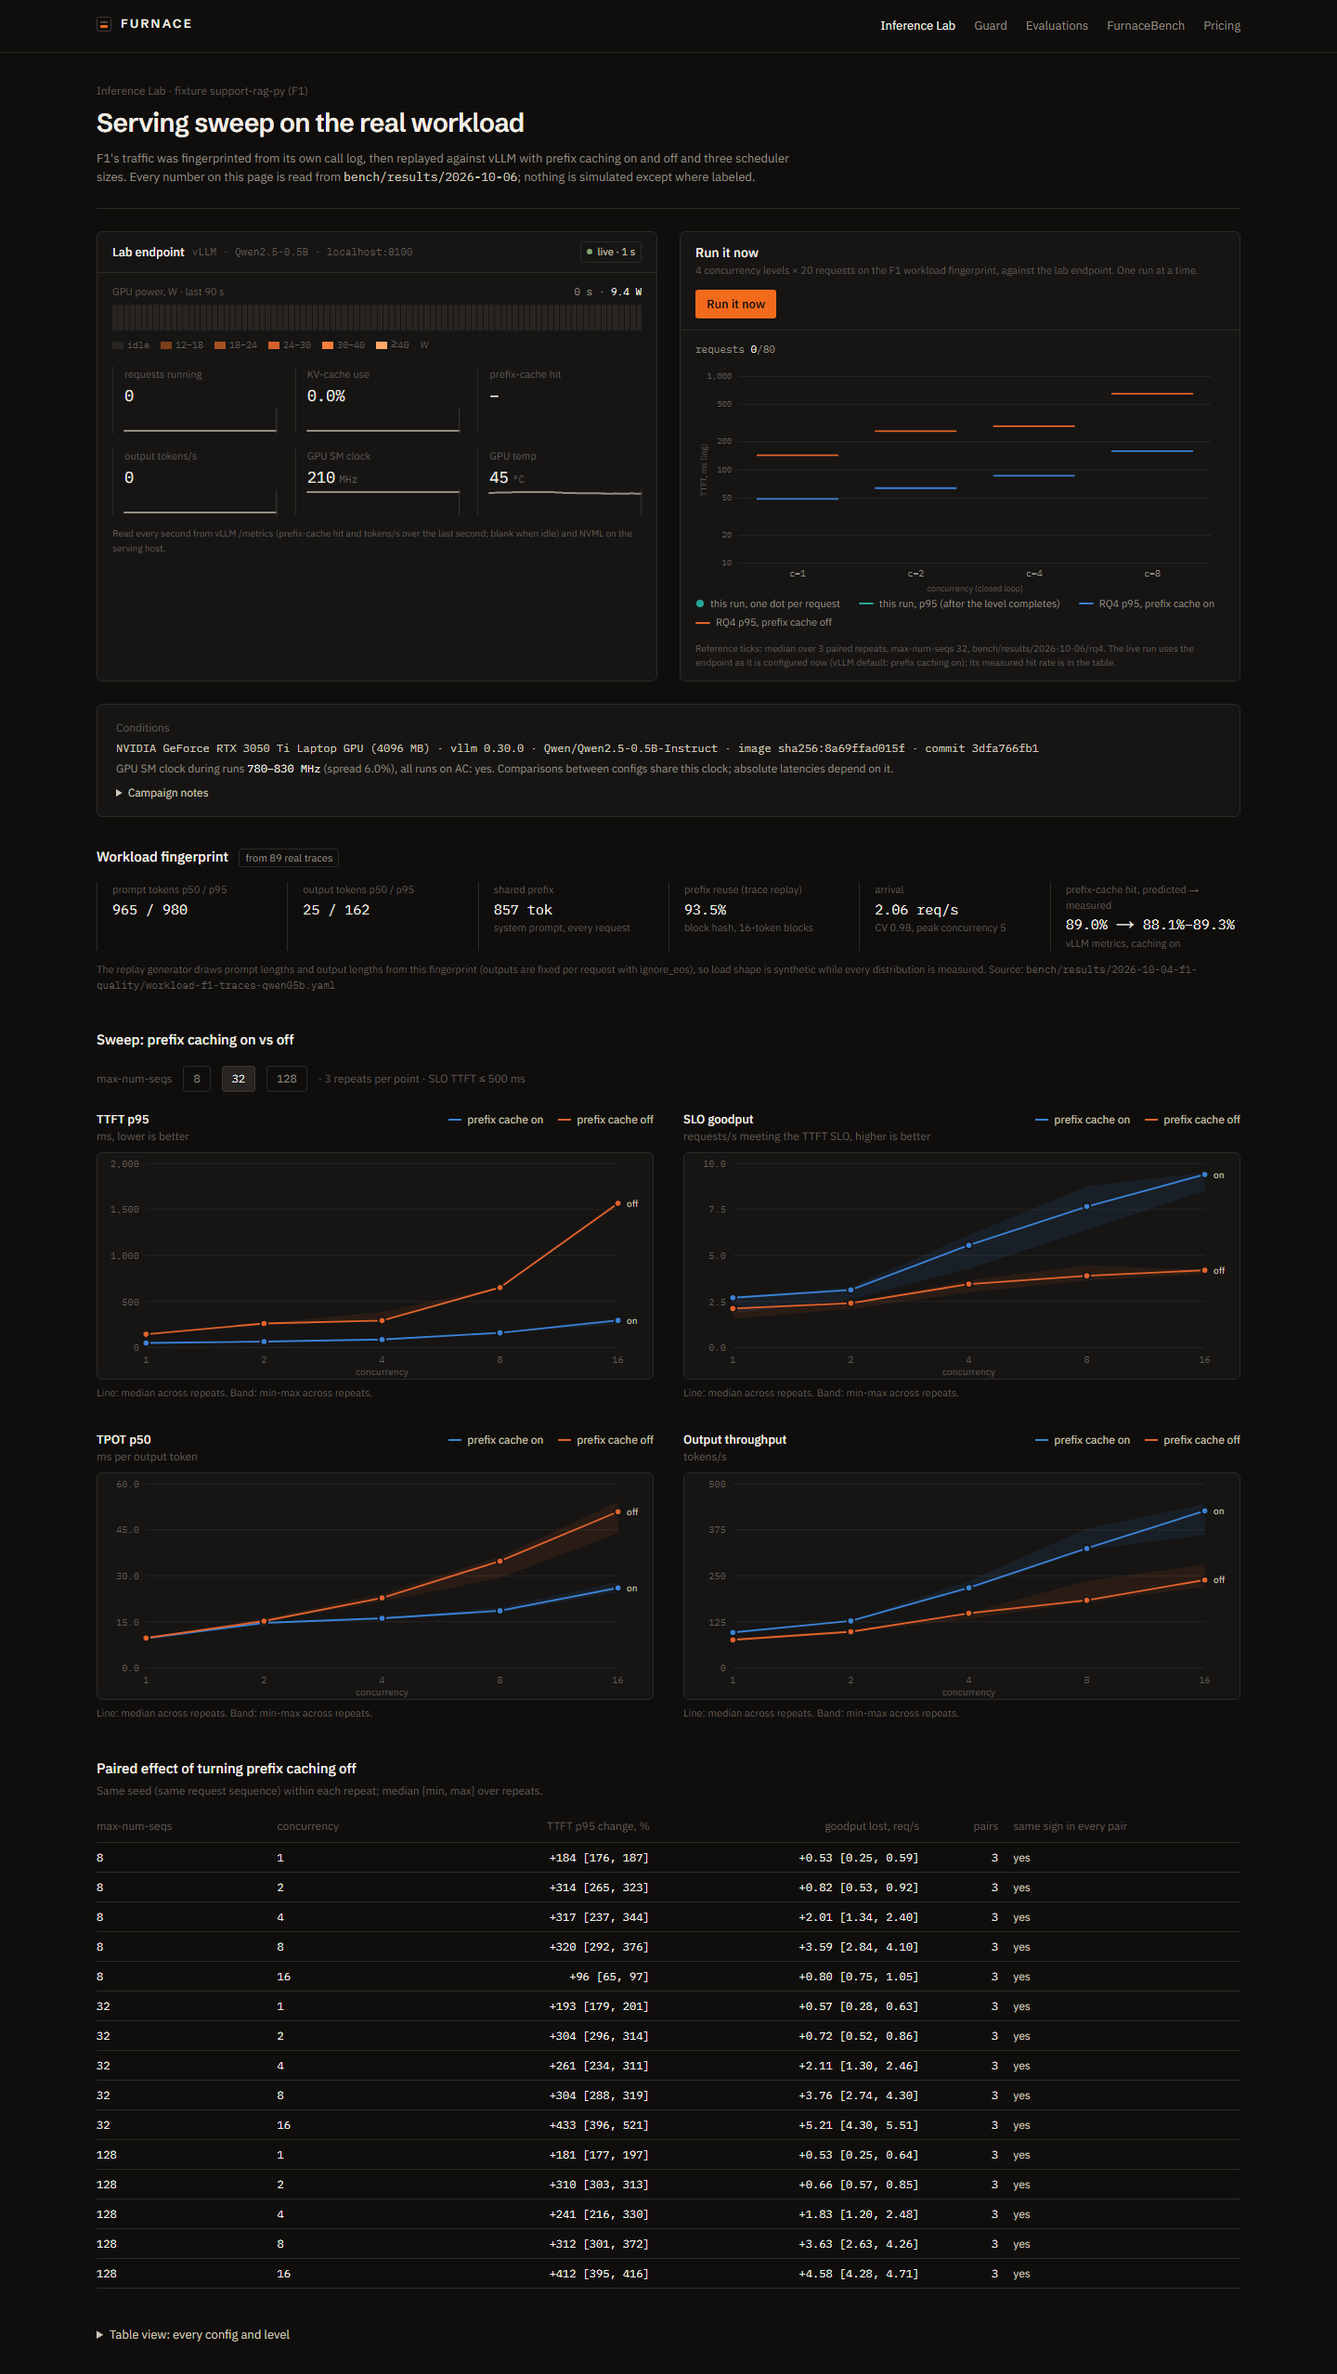
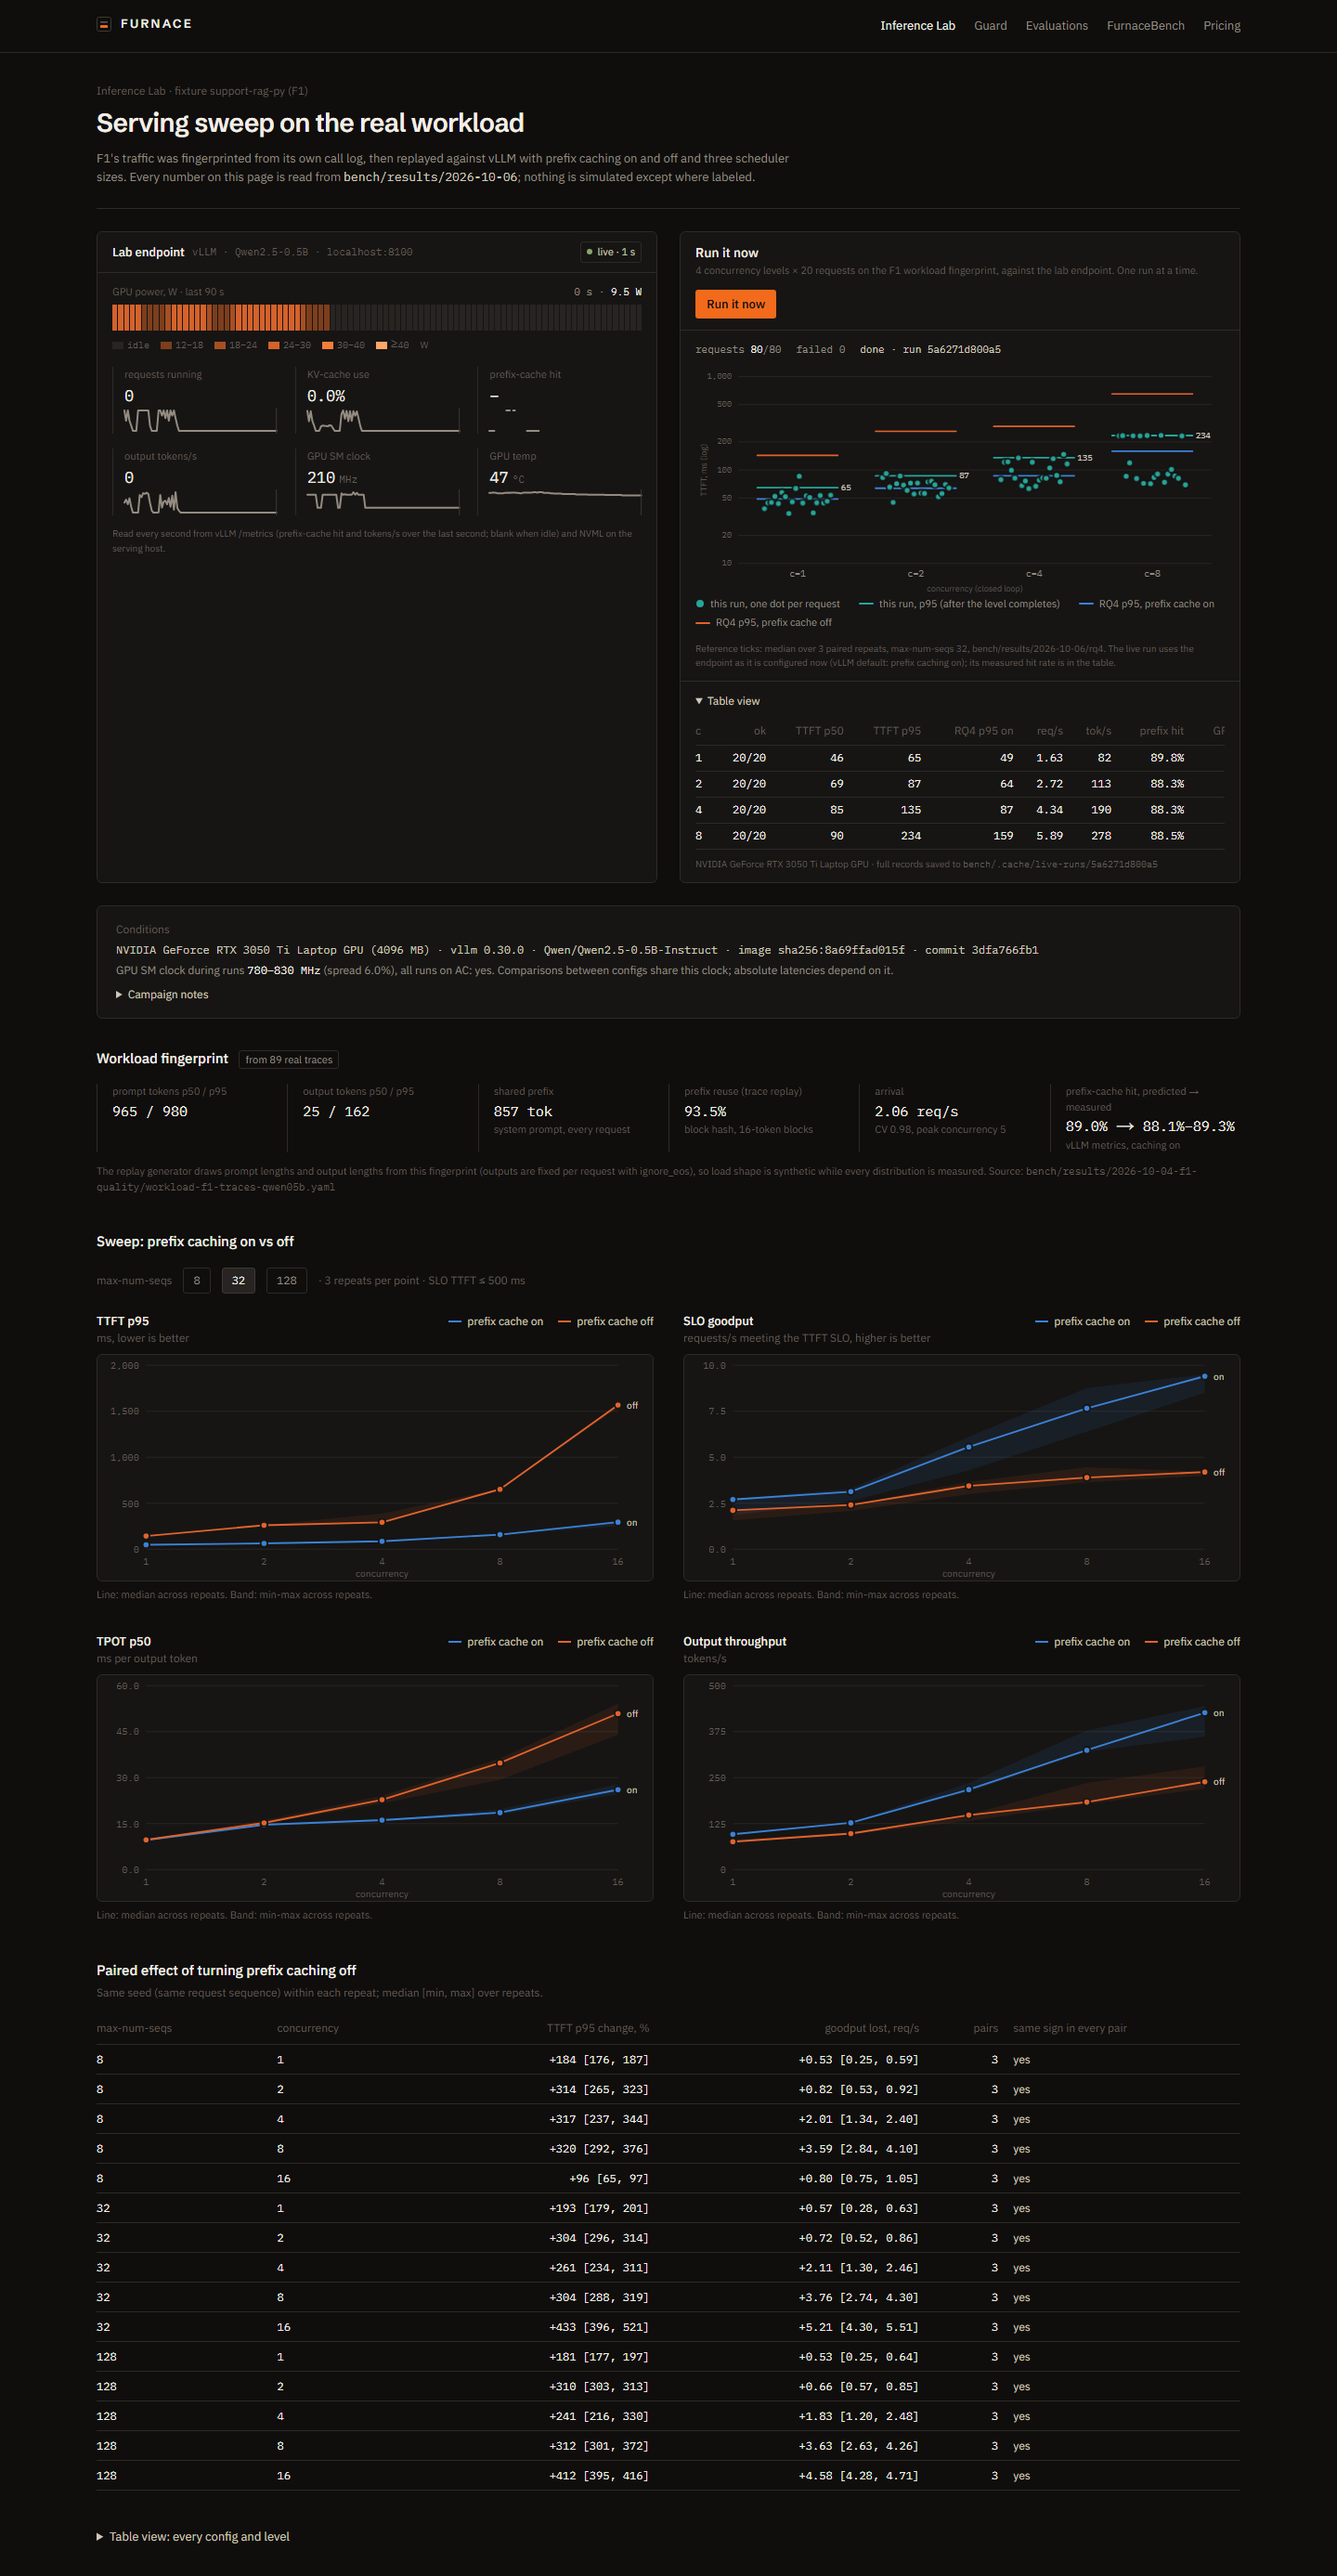
Rehearsal 4 on the latest code (all steps pass, video recorded); demo timings and screenshots refreshed
Guard runs take ~2 min with the fixed gate (warmup wave); the demo script says to start one at
the Lab step. Pre-flight notes cover a runner restart and scanning a visitor's own repo.
CONTINUE.md updated.

diff --git a/docs/demo.md b/docs/demo.md
@@ -6,21 +6,27 @@ RTX 3050 Ti" when showing latency. Under the lab's serving load the driver holds
 2026-10-09 addendum in `bench/results/2026-10-06/NOTES.md`). If asked: "a 0.5B model on a laptop
 GPU, which the driver does not even boost for"; the comparisons share that clock.
 
-Timings below are from two full rehearsals on 2026-10-09 (`scripts/rehearse.py`, results and
-screenshots in `docs/demo-shots/rehearsal-1/` and `rehearsal-2/`): every step passed both times.
+Timings below are from four full rehearsals on 2026-10-09 (`scripts/rehearse.py`, results and
+screenshots in `docs/demo-shots/rehearsal-1/` … `rehearsal-4/`): every step passed in all four.
+Rehearsals 3 and 4 recorded a video (the browser recording adds host load; 4 is the latest code).
 
-| step (rehearsed in a browser) | rehearsal 1 | rehearsal 2 |
-|---|---:|---:|
-| landing loads, live lab panel connects | 1.8 s | 0.4 s |
-| GitHub scan (Azure-Samples/openai-chat-app-quickstart) to Blueprint | 5.8 s | 3.7 s |
-| graph: select the workflow, path trace finishes | 1.8 s | 1.7 s |
-| /lab "Run it now": 80 requests, c = 1, 2, 4, 8 | 27.6 s | 32.5 s |
-| /guard/r1_dynamic_head "Run Guard on this PR" to verdict | 85.5 s | 83.9 s |
-| /bench | 0.4 s | 0.4 s |
+| step (rehearsed in a browser) | 1 | 2 | 3 | 4 |
+|---|---:|---:|---:|---:|
+| landing loads, live lab panel connects | 1.8 s | 0.4 s | 8.9 s* | 8.8 s* |
+| GitHub scan (Azure-Samples/openai-chat-app-quickstart) to Blueprint | 5.8 s | 3.7 s | 4.5 s | 7.2 s |
+| graph: select the workflow, path trace finishes | 1.8 s | 1.7 s | 2.5 s | 1.7 s |
+| /lab "Run it now": 80 requests, c = 1, 2, 4, 8 | 27.6 s | 32.5 s | 31.5 s | 31.3 s |
+| /guard/r1_dynamic_head "Run Guard on this PR" to verdict | 85.5 s | 83.9 s | 92.5 s | 129.2 s† |
+| /bench | 0.4 s | 0.4 s | 0.3 s | 0.2 s |
 
-Both Guard runs ended `FAILURE: 2 regressions found: prompt_prefix_stable, chat_perf_gate`
-(p95 TTFT 205 → 1,030 ms, prefix-cache hit 98% → 0% in rehearsal 1). Not rehearsed yet: the
-GitHub App steps (Forge PR, R1 PR check run, repair PR) — they need the App (docs/github-app.md).
+\* includes the deliberate pauses for the recording (hero replay, live panel).
+† rehearsal 4 runs the fixed perf gate, which adds an unmeasured warmup wave before each measured
+run: plan on **~2 minutes** for a live Guard run, so start it at step 5 and come back at step 7.
+
+Every Guard run ended `FAILURE: 2 regressions found: prompt_prefix_stable, chat_perf_gate`
+(rehearsal 4: p95 TTFT 139.8 → 981.6 ms, +602%, prefix-cache hit 98% → 0%; absolute values move
+with host load, the comparison shares it). Not rehearsed yet: the GitHub App steps (Forge PR, R1
+PR check run, repair PR): they need the App (docs/github-app.md).
 
 ## Pre-flight (30 minutes before)
 
@@ -35,11 +41,10 @@ the pre-flight below. `uv run poe demo-down` stops them. The steps it automates:
 - [ ] Docker Desktop running; `docker compose up -d postgres`; lab vLLM up
       (`HF_HOME_HOST=C:/Users/user/.cache/huggingface docker compose --profile gpu up -d vllm`,
       ready after ~60 s: `curl localhost:8100/v1/models`).
-- [ ] Four processes, each in its own terminal:
-      `uv run poe api` (:8010), `uv run poe worker` (scans), `uv run poe runner` (Guard runs),
-      `cd apps/web && pnpm dev --port 3100`. After editing API code, restart the API by hand:
-      `--reload` waits for open live streams before it restarts.
-- [ ] `uv run python scripts/rehearse.py` passes (about 2.5 minutes; it runs one real benchmark
+- [ ] Four processes (`demo-up` starts them): API (:8010), scan worker, Guard runner, web (:3100).
+      Restarting the runner mid-run is safe now: on start it fails the job it was running, with
+      that reason, instead of leaving it "running".
+- [ ] `uv run python scripts/rehearse.py` passes (about 3.5 minutes; it runs one real benchmark
       and one real Guard run, so the pages then show fresh results).
 - [ ] `uv run furnace gh-check` prints the App and the `furnace-demo-f1` installation (needs the App).
 - [ ] Demo repo has the R1 PR open and Guard has already run once on it (the local copy is ready at
@@ -49,8 +54,10 @@ the pre-flight below. `uv run poe demo-down` stops them. The steps it automates:
       /bench, the demo repo's PR and the repair draft PR.
 - [ ] Fallback: `docs/demo-shots/` (desktop), `docs/demo-shots/mobile/` (390 px), the rehearsal
       folders, and a screen recording of the whole local path
-      (`uv run python scripts/rehearse.py --video docs/demo-video`, about 2:40, saved as .webm;
+      (`uv run python scripts/rehearse.py --video docs/demo-video`, about 3:30, saved as .webm;
       not committed). Copy the video to a USB stick as well.
+- [ ] If someone hands you their own repo: renamed repos now resolve; a TypeScript-only repo gets
+      a "what this scan could read" notice (Furnace analyzes Python today), not an empty page.
 
 ## Script
 

diff --git a/CONTINUE.md b/CONTINUE.md
@@ -6,6 +6,15 @@ Paste this file's path into a new Claude Code session ("read CONTINUE.md and con
 Deadlines: feature freeze **Oct 15**, pitch **Oct 17**. No fabricated numbers; negative results are reported.
 
 ## Oct 8-9 session (live demo work), newest first
+- **Oct 9 (evening): scanner coverage, robustness.** Held-out set 3 (Gemini, Mistral, Replicate,
+  Bedrock, Cohere apps) labeled and committed before any scan; SDK coverage (typed clients, injected
+  `self.x` clients, replicate.run, LangChain wrappers, new ServingEngine values) + Streamlit/CLI script
+  workflows. RQ1 set 3 LLM call sites 1/9 -> 8/9 (P 1.00), workflows 0/9 -> 6/9; scorer bug (class
+  methods never matched) fixed, both scanners re-scored (`bench/results/2026-10-09/RQ1_NOTES.md`).
+  Fixed: renamed GitHub repos (301) crashed scans; TS-only repos showed an empty Blueprint (now a
+  coverage notice); retries claimed from transitive pins; a worker restarted mid-job left the job
+  'running' forever (now failed on restart / reaped). Rehearsal 4 (latest code, video) passed;
+  a live Guard run now takes ~2 min (gate warmup).
 - **Oct 9 (late): perf gate fixed, RQ5 re-measured.** A/A calibration (`bench/gate_noise.py`) found the
   gate biased (identical revisions up to 60% apart; cold first wave after idle set the p95, base
   measured first). Fix: one unmeasured warmup wave per run -> A/A within 9.7%. Re-measured RQ5:
